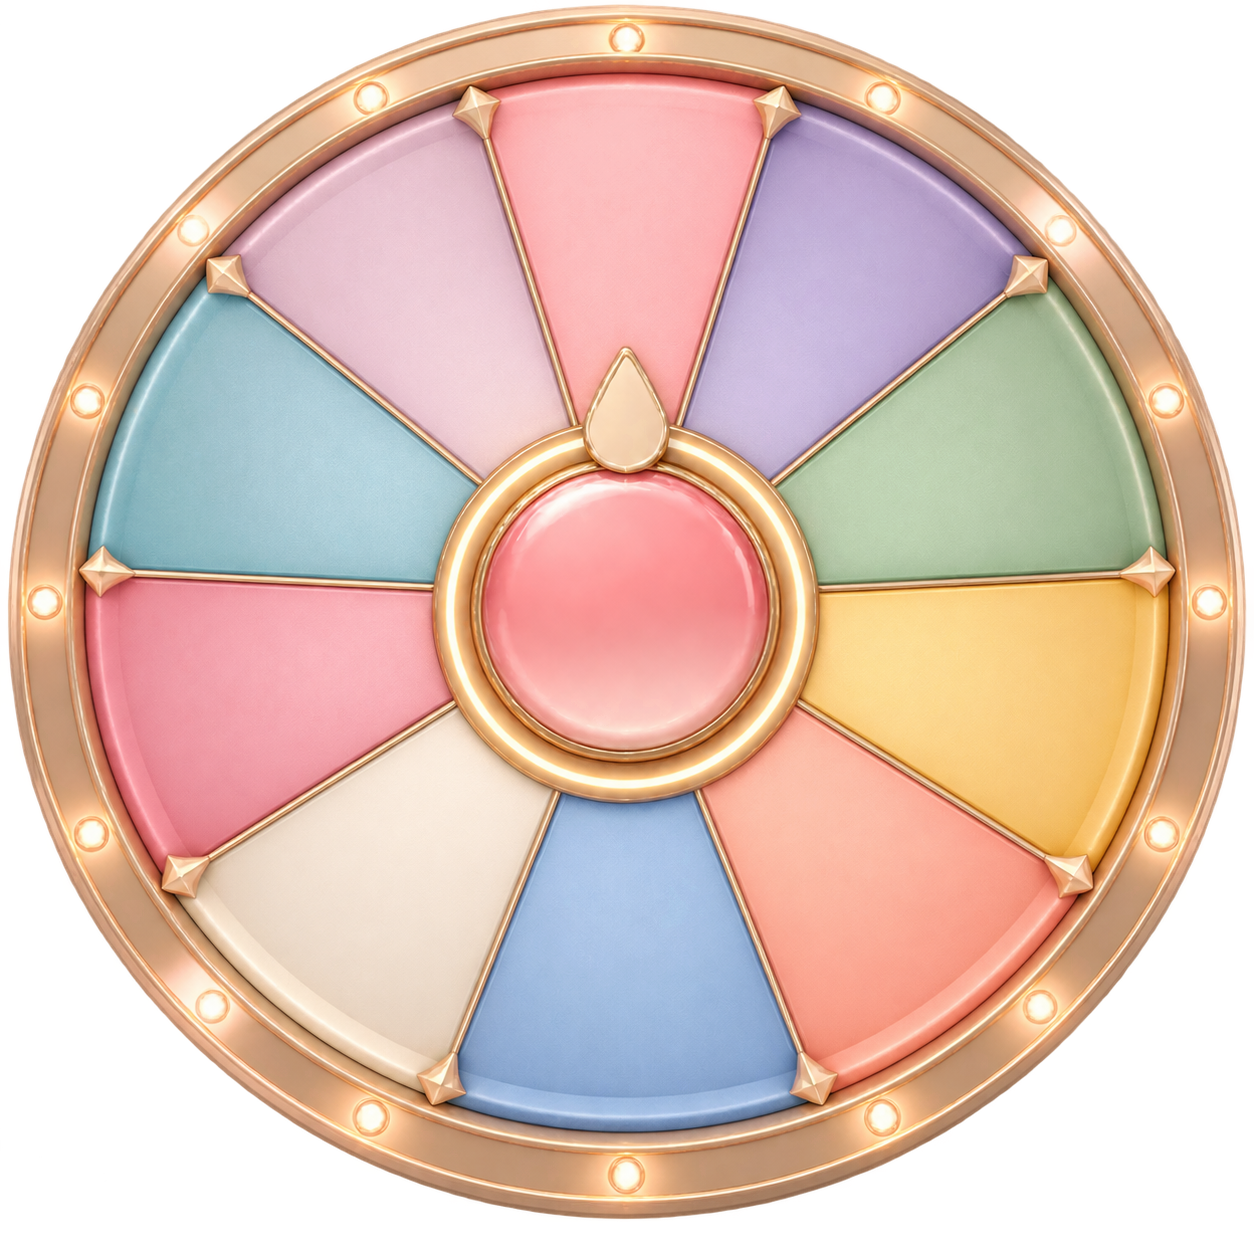
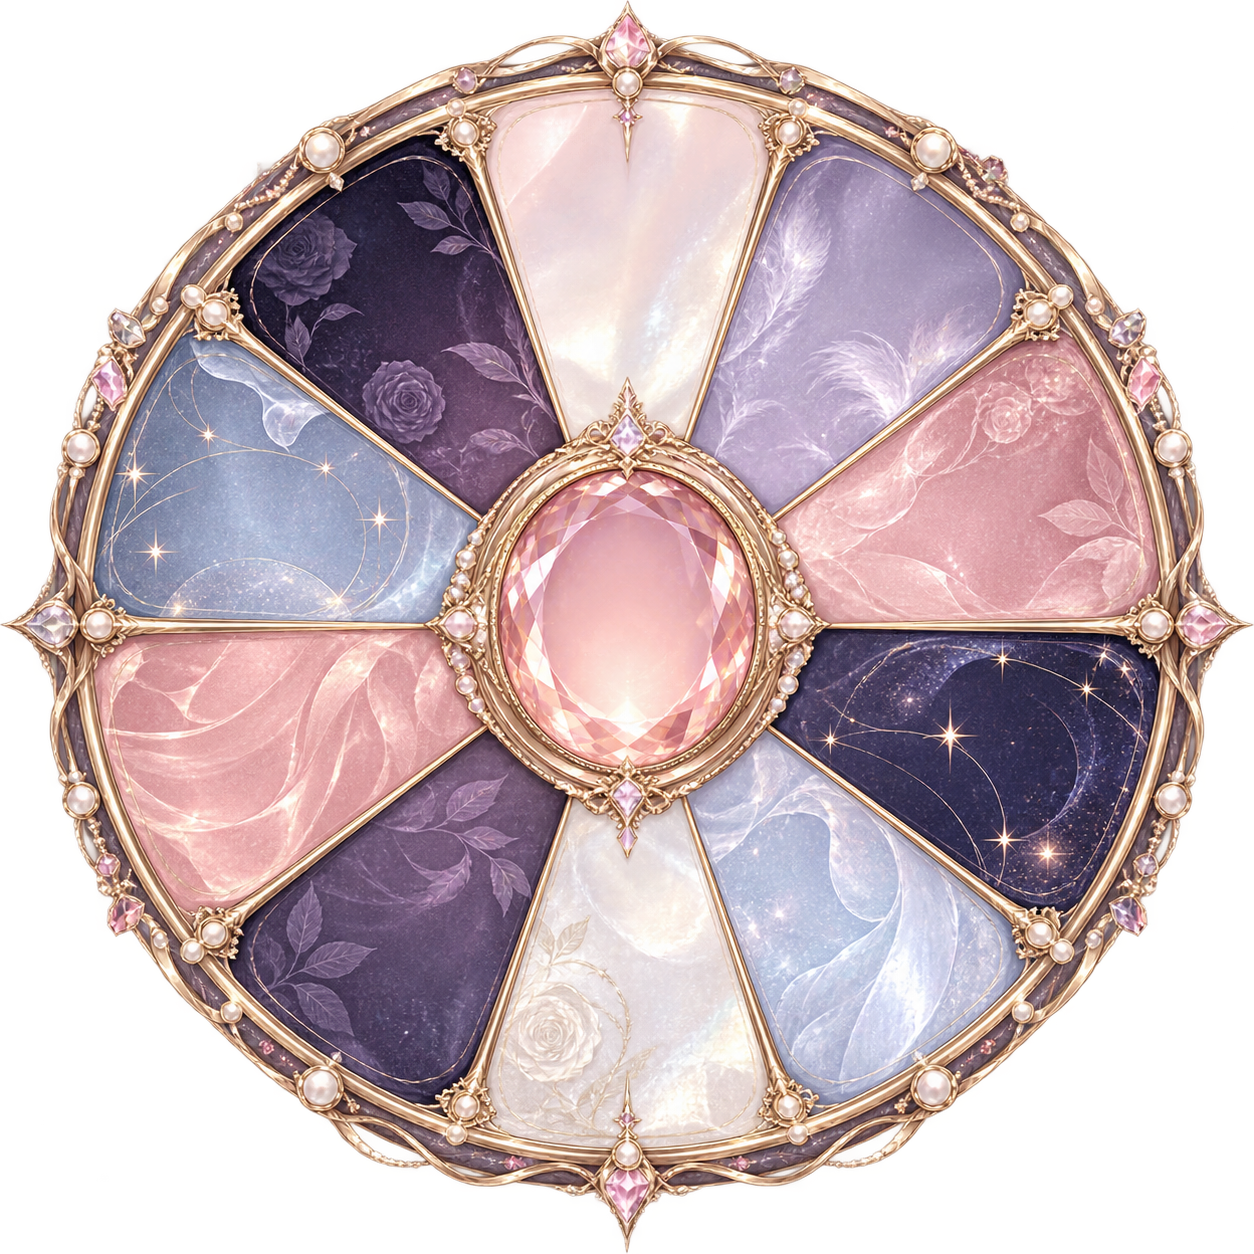
feat: redesign lottery wheel stage

diff --git a/web/src/pages/RewardsPage.tsx b/web/src/pages/RewardsPage.tsx
@@ -240,22 +240,22 @@ function LotteryPanel({ store, spinning, rotation, result, onDraw, onInvite, onT
         </button>
       </div>
 
-      <div className="relative overflow-hidden rounded-[8px] border border-[#dba66f]/45 bg-[var(--color-page-surface)] px-3 pb-5 pt-4 shadow-[0_16px_38px_rgba(104,51,67,0.14)] sm:px-6">
-        <span className="pointer-events-none absolute inset-x-0 top-0 h-[3px] bg-[#e7b873]" aria-hidden="true" />
-        <GiftStageHeader />
+      <div className="relative overflow-hidden rounded-[8px] border border-[#bca7c8]/25 bg-[#18161f] px-3 pb-5 pt-4 shadow-[0_18px_44px_rgba(30,19,38,0.28)] sm:px-6">
+        <MoonlitBackdrop />
+        <WishStageHeader />
 
-        <div className="relative mx-auto mb-3 grid max-w-[390px] grid-cols-3 divide-x divide-[#d6a870]/30 border-y border-dashed border-[#d6a870]/45 py-3">
-          <span className="absolute -left-[18px] top-1/2 h-4 w-4 -translate-y-1/2 rounded-full bg-[var(--color-page-surface)] ring-1 ring-[#d6a870]/35 sm:-left-[30px]" aria-hidden="true" />
-          <span className="absolute -right-[18px] top-1/2 h-4 w-4 -translate-y-1/2 rounded-full bg-[var(--color-page-surface)] ring-1 ring-[#d6a870]/35 sm:-right-[30px]" aria-hidden="true" />
+        <div className="relative z-10 mx-auto mb-3 grid max-w-[390px] grid-cols-3 divide-x divide-[#d8c5dd]/15 border-y border-[#d8c5dd]/15 py-3">
           <RewardPromise value={`${store.lottery?.available_chances ?? 0} 次`} label="当前可抽" accent />
           <RewardPromise value="100%" label="次次有奖" />
           <RewardPromise value="¥69" label="最高价值" />
         </div>
 
-        <div className="relative mx-auto flex max-w-[420px] flex-col items-center">
-          <GiftConfetti />
-          <div className="relative aspect-square w-full max-w-[342px]">
-            <div className="absolute left-1/2 top-[1.5%] z-30 h-0 w-0 -translate-x-1/2 border-x-[10px] border-t-[19px] border-x-transparent border-t-[#7f4d58] drop-shadow-[0_2px_2px_rgba(0,0,0,0.2)]" />
+        <div className="relative z-10 mx-auto flex max-w-[420px] flex-col items-center">
+          <div className="relative aspect-square w-full max-w-[342px] drop-shadow-[0_18px_24px_rgba(7,4,12,0.46)]">
+            <div className="absolute left-1/2 top-[0.5%] z-30 -translate-x-1/2" aria-hidden="true">
+              <span className="block h-4 w-4 rotate-45 border border-[#f4d8ba]/75 bg-[#9a6f96] shadow-[0_0_12px_rgba(236,203,221,0.45)]" />
+              <span className="mx-auto mt-1 block h-4 w-px bg-[#f4d8ba]/60" />
+            </div>
             <div
               className="absolute inset-0 transition-transform duration-[900ms] ease-out motion-reduce:transition-none"
               style={{ transform: `rotate(${rotation}deg)`, willChange: 'transform' }}
@@ -280,7 +280,7 @@ function LotteryPanel({ store, spinning, rotation, result, onDraw, onInvite, onT
                     }}
                   >
                     <span
-                      className="flex items-center justify-center whitespace-nowrap rounded-full bg-[#4b2c35]/78 px-1.5 py-1 font-bold leading-none text-white shadow-[0_2px_6px_rgba(49,24,30,0.25)] transition-transform duration-[900ms] ease-out motion-reduce:transition-none"
+                      className="flex items-center justify-center whitespace-nowrap rounded-full border border-[#f1d9c4]/35 bg-[#241c2d]/78 px-1.5 py-1 font-bold leading-none text-[#fff9f5] shadow-[0_3px_9px_rgba(16,9,22,0.32)] backdrop-blur-[2px] transition-transform duration-[900ms] ease-out motion-reduce:transition-none"
                       style={{
                         fontSize: 'clamp(8px, 2.5vw, 10px)',
                         minWidth: 'clamp(44px, 14vw, 58px)',
@@ -296,19 +296,19 @@ function LotteryPanel({ store, spinning, rotation, result, onDraw, onInvite, onT
             <button
               onClick={onDraw}
               disabled={spinning || !store.lottery?.available_chances}
-              className="absolute left-1/2 top-1/2 z-20 flex h-[25%] w-[25%] -translate-x-1/2 -translate-y-1/2 items-center justify-center rounded-full bg-transparent text-[15px] font-bold text-[#8d5361] outline-none transition-transform active:scale-95 disabled:cursor-not-allowed disabled:opacity-45 focus-visible:ring-2 focus-visible:ring-white/90 focus-visible:ring-offset-2 focus-visible:ring-offset-[#dfa987]"
+              className="absolute left-1/2 top-1/2 z-20 flex h-[25%] w-[25%] -translate-x-1/2 -translate-y-1/2 items-center justify-center rounded-full bg-transparent text-[15px] font-bold text-[#70465f] outline-none transition-transform active:scale-95 disabled:cursor-not-allowed disabled:opacity-45 focus-visible:ring-2 focus-visible:ring-[#f5dce9]/90 focus-visible:ring-offset-2 focus-visible:ring-offset-[#50344f]"
             >
               {spinning ? '抽取中' : '抽奖'}
             </button>
           </div>
           <div className="mt-2 min-h-[54px] text-center" aria-live="polite">
-            <p className={`text-[18px] font-bold ${result ? 'text-[var(--color-primary-600)]' : 'text-[var(--color-ink)]'}`}>
+            <p className={`text-[18px] font-bold ${result ? 'text-[#e7a8c2]' : 'text-[#f4edf5]'}`}>
               {result ? `恭喜获得 ${PRIZE_LABELS[result.prize_code] ?? result.prize_code}` : '点击中心，抽取今日好运'}
             </p>
-            <p className="mt-1 text-[11px] text-[var(--color-text-muted)]">
+            <p className="mt-1 text-[11px] text-[#b5a9ba]">
               {result ? '奖励已自动发放到账户' : '悠悠币立即到账，会员奖进入体验卡'}
             </p>
-            <p className="mt-1 text-[10px] text-[var(--color-text-muted)]">机会有效期至 {formatDate(store.lottery?.next_expiry_at ?? null)}</p>
+            <p className="mt-1 text-[10px] text-[#887d8d]">机会有效期至 {formatDate(store.lottery?.next_expiry_at ?? null)}</p>
           </div>
         </div>
       </div>
@@ -409,63 +409,41 @@ function Metric({ value, label }: { value: number; label: string }) {
 function RewardPromise({ value, label, accent = false }: { value: string; label: string; accent?: boolean }) {
   return (
     <div className="text-center">
-      <p className={`text-[17px] font-bold ${accent ? 'text-[var(--color-primary-600)]' : 'text-[var(--color-ink)]'}`}>{value}</p>
-      <p className="mt-1 text-[10px] text-[var(--color-text-muted)]">{label}</p>
+      <p className={`text-[17px] font-bold ${accent ? 'text-[#e7a8c2]' : 'text-[#f4edf5]'}`}>{value}</p>
+      <p className="mt-1 text-[10px] text-[#9d919f]">{label}</p>
     </div>
   )
 }
 
-function GiftStageHeader() {
+function WishStageHeader() {
   return (
-    <div className="relative mx-auto mb-3 flex min-h-[78px] max-w-[390px] items-center justify-center overflow-hidden border-b border-[#d6a870]/25 pb-3 pt-1">
-      <svg className="pointer-events-none absolute left-0 top-2 h-[56px] w-[38%] text-[#e8899f]/60" viewBox="0 0 160 64" fill="none" aria-hidden="true">
-        <path d="M0 29c31-22 54 22 87 1 22-14 41-12 73 7" stroke="currentColor" strokeWidth="5" strokeLinecap="round" />
-        <path d="M5 42c29-11 43 13 67 6" stroke="#e7b873" strokeWidth="2.5" strokeLinecap="round" />
-      </svg>
-      <svg className="pointer-events-none absolute right-0 top-2 h-[56px] w-[38%] -scale-x-100 text-[#e8899f]/60" viewBox="0 0 160 64" fill="none" aria-hidden="true">
-        <path d="M0 29c31-22 54 22 87 1 22-14 41-12 73 7" stroke="currentColor" strokeWidth="5" strokeLinecap="round" />
-        <path d="M5 42c29-11 43 13 67 6" stroke="#e7b873" strokeWidth="2.5" strokeLinecap="round" />
-      </svg>
-
-      <span className="absolute left-[12%] top-1 h-2 w-2 rotate-45 bg-[#e7b873]" aria-hidden="true" />
-      <span className="absolute left-[22%] bottom-3 h-1.5 w-3 rotate-[24deg] rounded-full bg-[#9b84d7]/75" aria-hidden="true" />
-      <span className="absolute right-[13%] top-3 h-3 w-1.5 -rotate-[24deg] rounded-full bg-[#79b9c8]/85" aria-hidden="true" />
-      <span className="absolute right-[25%] bottom-2 h-2 w-2 rotate-45 bg-[#e7b873]" aria-hidden="true" />
-
-      <div className="relative z-10 flex items-center gap-2.5 bg-[var(--color-page-surface)] px-3">
-        <GiftBoxIcon />
-        <div>
-          <p className="text-[10px] font-bold text-[#c89349]">TODAY'S SURPRISE</p>
-          <p className="mt-0.5 text-[16px] font-bold text-[var(--color-ink)]">拆开今天的幸运好礼</p>
-        </div>
+    <div className="relative z-10 mx-auto mb-3 flex min-h-[70px] max-w-[390px] items-center justify-center border-b border-[#d8c5dd]/15 pb-3 pt-1 text-center">
+      <span className="h-px w-10 bg-[#d8b98d]/35 sm:w-16" aria-hidden="true" />
+      <span className="mx-3 h-2.5 w-2.5 rotate-45 border border-[#f0d1a9]/60 bg-[#8d698c] shadow-[0_0_10px_rgba(235,203,222,0.28)]" aria-hidden="true" />
+      <div>
+        <p className="text-[10px] font-bold text-[#c6a77d]">MOONLIT WISH</p>
+        <p className="mt-1 text-[16px] font-bold text-[#f4edf5]">月光落下，心愿即将揭晓</p>
       </div>
+      <span className="mx-3 h-2.5 w-2.5 rotate-45 border border-[#f0d1a9]/60 bg-[#8d698c] shadow-[0_0_10px_rgba(235,203,222,0.28)]" aria-hidden="true" />
+      <span className="h-px w-10 bg-[#d8b98d]/35 sm:w-16" aria-hidden="true" />
     </div>
   )
 }
 
-function GiftBoxIcon() {
+function MoonlitBackdrop() {
   return (
-    <svg className="h-[46px] w-[52px] shrink-0 drop-shadow-[0_6px_10px_rgba(112,55,67,0.18)]" viewBox="0 0 56 50" fill="none" aria-hidden="true">
-      <path d="M7 20h42v25a3 3 0 0 1-3 3H10a3 3 0 0 1-3-3V20Z" fill="#ef90a7" stroke="#8d5361" strokeWidth="1.5" />
-      <path d="M4 14h48v9H4z" fill="#f7b2c1" stroke="#8d5361" strokeWidth="1.5" />
-      <path d="M24 14h8v34h-8z" fill="#edbd70" stroke="#a87332" strokeWidth="1.2" />
-      <path d="M28 14c-8-1-13-3-13-7 0-3 2-5 5-5 5 0 8 7 8 12Z" fill="#f8d9df" stroke="#8d5361" strokeWidth="1.5" />
-      <path d="M28 14c8-1 13-3 13-7 0-3-2-5-5-5-5 0-8 7-8 12Z" fill="#f8d9df" stroke="#8d5361" strokeWidth="1.5" />
-      <path d="m28 13-6 8M28 13l6 8" stroke="#a87332" strokeWidth="1.5" strokeLinecap="round" />
+    <svg className="pointer-events-none absolute inset-0 h-full w-full opacity-55" viewBox="0 0 480 650" preserveAspectRatio="none" fill="none" aria-hidden="true">
+      <ellipse cx="240" cy="350" rx="190" ry="230" stroke="#9b82a6" strokeOpacity=".16" />
+      <ellipse cx="240" cy="350" rx="158" ry="198" stroke="#d8b98d" strokeOpacity=".12" strokeDasharray="2 10" />
+      <path d="M-18 476C45 444 70 393 84 334c12-49 34-76 75-98M498 476c-63-32-88-83-102-142-12-49-34-76-75-98" stroke="#b796ae" strokeOpacity=".2" />
+      <path d="M12 468c34-4 58-23 72-55M468 468c-34-4-58-23-72-55" stroke="#d8b98d" strokeOpacity=".18" />
+      <path d="M38 440c17-4 30 2 40 14-18 5-31 0-40-14ZM442 440c-17-4-30 2-40 14 18 5 31 0 40-14ZM62 394c14-8 28-7 41 3-15 9-29 8-41-3ZM418 394c-14-8-28-7-41 3 15 9 29 8 41-3Z" fill="#a88aa6" fillOpacity=".12" />
+      <path d="m51 185 3 8 8 3-8 3-3 8-3-8-8-3 8-3 3-8Zm378 35 2 6 6 2-6 2-2 6-2-6-6-2 6-2 2-6ZM86 292l2 5 5 2-5 2-2 5-2-5-5-2 5-2 2-5Zm308-18 2 5 5 2-5 2-2 5-2-5-5-2 5-2 2-5Z" fill="#f1d9bd" fillOpacity=".45" />
+      <circle cx="74" cy="242" r="1.5" fill="#e9d8e9" fillOpacity=".55" />
+      <circle cx="414" cy="330" r="1.5" fill="#e9d8e9" fillOpacity=".45" />
+      <circle cx="118" cy="520" r="1" fill="#d8b98d" fillOpacity=".5" />
+      <circle cx="365" cy="536" r="1" fill="#d8b98d" fillOpacity=".5" />
     </svg>
-  )
-}
-
-function GiftConfetti() {
-  return (
-    <div className="pointer-events-none absolute inset-x-0 top-0 z-0 h-[86%] overflow-hidden" aria-hidden="true">
-      <span className="absolute left-[2%] top-[18%] h-4 w-1.5 rotate-[28deg] rounded-full bg-[#e8899f]/55" />
-      <span className="absolute left-[8%] top-[42%] h-2.5 w-2.5 rotate-45 border border-[#e7b873]/65" />
-      <span className="absolute left-[4%] top-[67%] h-1.5 w-4 -rotate-[18deg] rounded-full bg-[#79b9c8]/55" />
-      <span className="absolute right-[3%] top-[22%] h-3 w-1.5 -rotate-[22deg] rounded-full bg-[#9b84d7]/55" />
-      <span className="absolute right-[8%] top-[48%] h-2.5 w-2.5 rotate-45 bg-[#e7b873]/55" />
-      <span className="absolute right-[3%] top-[72%] h-1.5 w-4 rotate-[18deg] rounded-full bg-[#e8899f]/50" />
-    </div>
   )
 }
 
